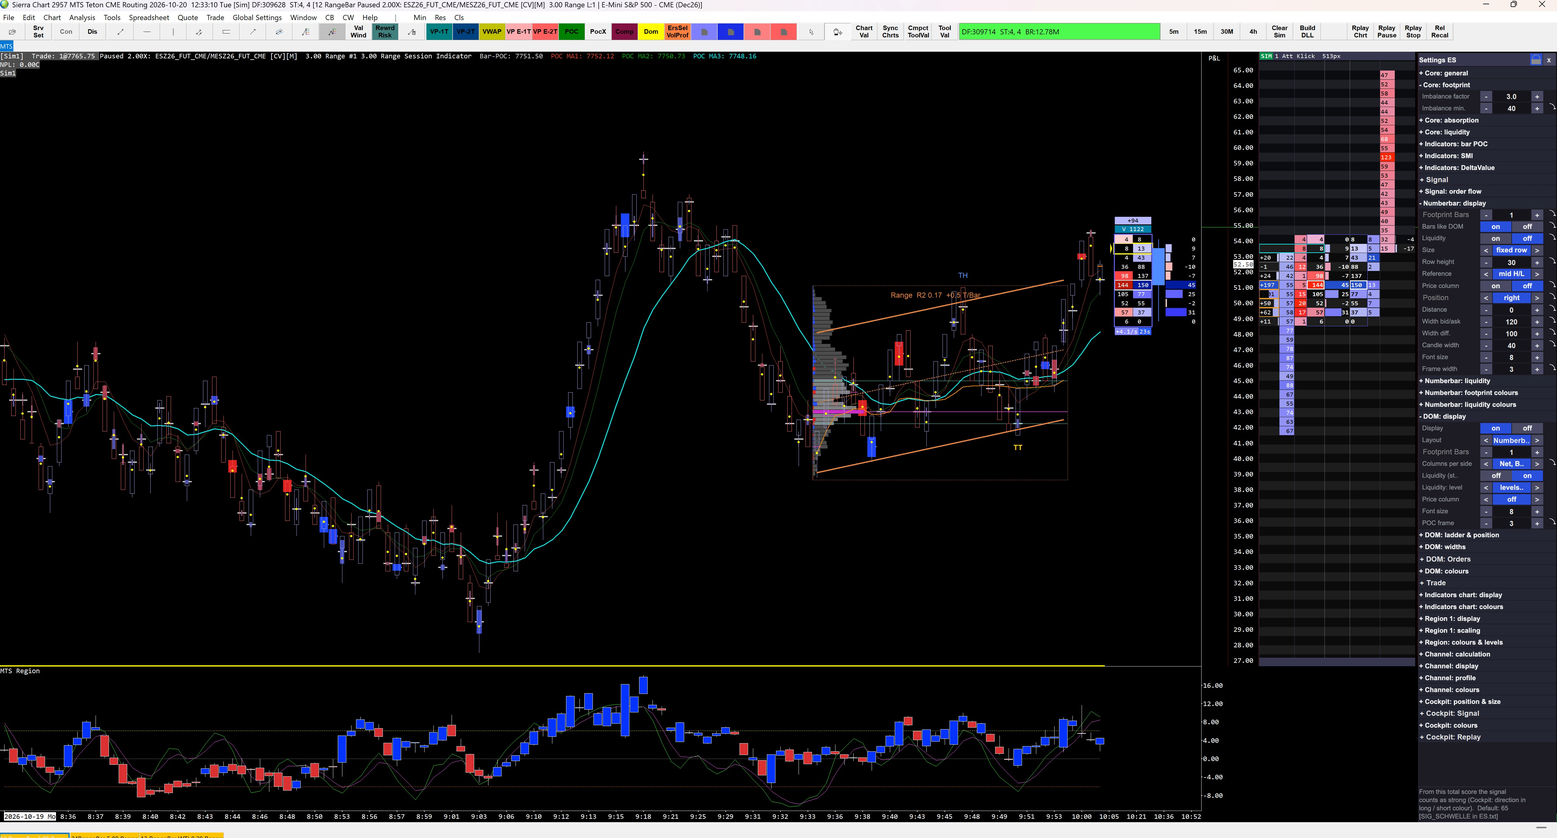
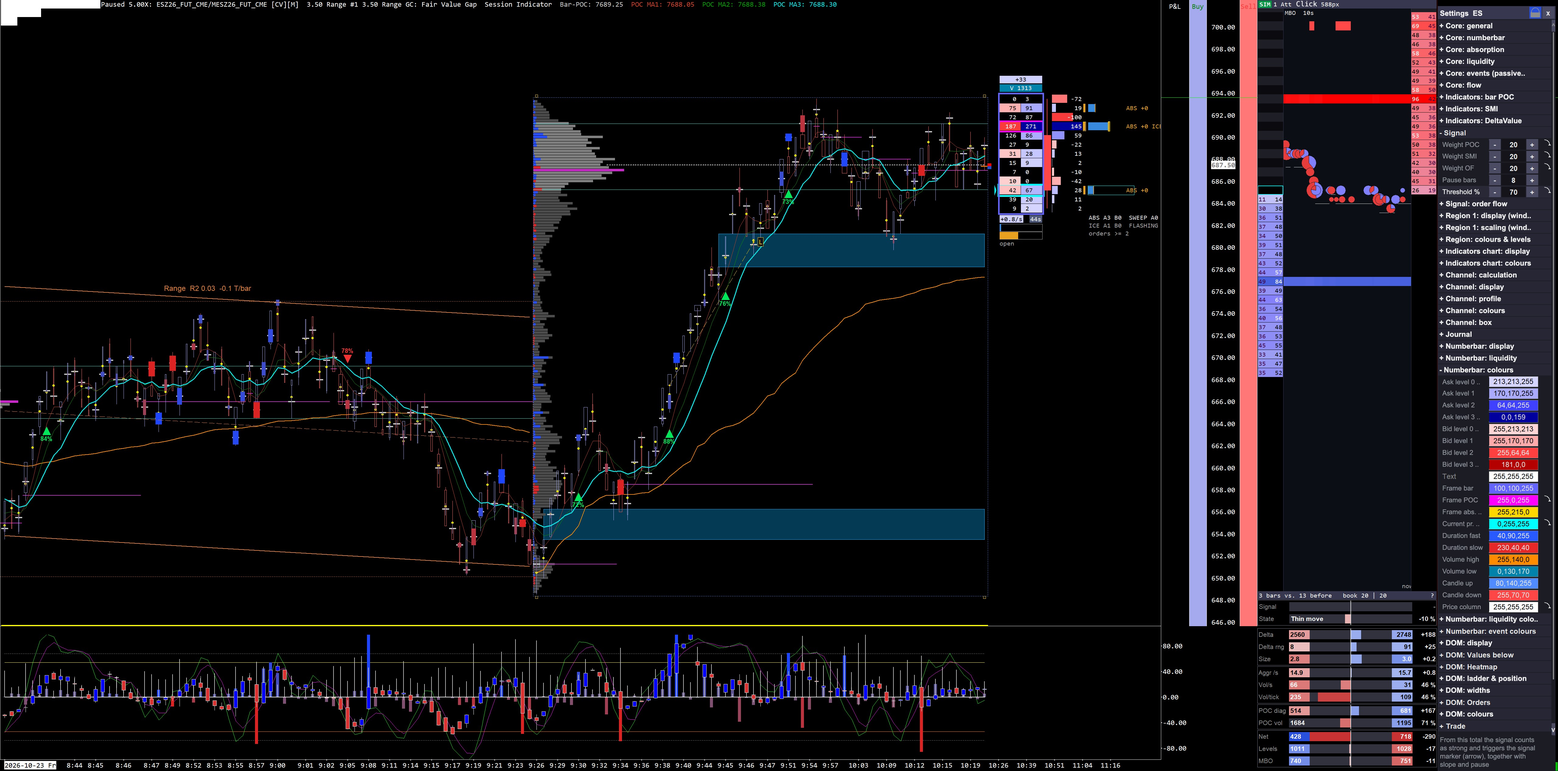
Update tour to the current cockpit
New screenshots, Flow view, values below the DOM.

Changed region(s): [[0.0, 0.0, 1.0, 1.0], [0.0, 0.7794, 0.0311, 0.8106]]

diff --git a/index.html b/index.html
@@ -53,76 +53,92 @@
 </div>
 <footer>Screenshots from Sierra Chart (labels shown in English), simulated account. Not investment advice. © 2026 chrislb<br>Questions or feedback: <a href="mailto:mts.tour@icloud.com" style="color:var(--acc)">mts.tour@icloud.com</a></footer>
 <script>
-// Zwei Ansichten: Hauptbild (Stand 2026-10-23) und Einstellungen. Bereiche in Einheiten der 1600-px-Ansicht.
-const V = { main: { src:'screen.jpg', W:1600, H:791.9 }, set: { src:'settings.jpg', W:1600, H:861.9 } };
+// Drei Ansichten (Stand 2026-11-06): Hauptbild, Flow-Ansicht des DOM, Einstellungen. Bereiche in Einheiten der 1600-px-Ansicht.
+const V = { main: { src:'screen.jpg', W:1600, H:791.9 }, flow: { src:'flow.jpg', W:1600, H:791.9 }, set: { src:'settings.jpg', W:1600, H:791.9 } };
 const A = [
- { id:'intro', t:'Overview', r:null, show:'One chartbook, only own studies: price chart with volume profiles, channels and journal entries, footprint bar and diagonal delta, an order-flow DOM, an indicator region and – on the right – the Cockpit, a column of tiles that replaces most of the classic dialogs.',
+ { id:'intro', t:'Overview', r:null, show:'One chartbook with its own studies: price chart with volume profiles and journal entries, numberbar and diagonal delta, an order-flow DOM with a value panel below it, an indicator region and – on the right – the Cockpit, a column of tiles that replaces most of the classic dialogs.',
    why:'Everything a discretionary order-flow trader needs while the market moves, in one place – and every situation can be recorded as a case to learn from.',
    where:'All settings live in the Cockpit drawer (one key per setting, applied instantly). Every tile has a "?" that opens its manual chapter.' },
- { id:'chart', t:'Price chart', r:[0,10,1100,600], show:'Example: 3.5-point range bars – any bar type works. Per bar: <b>yellow dot</b> = 1-bar VWAP (the bar’s centre of gravity), <b>thin cross line</b> = bar POC, <b>red / blue box</b> = POC delta: its height is the volume at the POC, its width the delta. Plus three POC moving averages.',
+ { id:'chart', t:'Price chart', r:[0,10,1012,625], show:'Example: 3.5-point range bars – any bar type works. Per bar: <b>yellow dot</b> = 1-bar VWAP (the bar’s centre of gravity), <b>thin cross line</b> = bar POC, <b>red / blue box</b> = POC delta: its height is the volume at the POC, its width the delta. Plus three POC moving averages.<br><br>The teal zones are not part of MTS: they come from a separate study on this chart (see the chart title, "Fair Value Gap").',
    why:'See inside every bar where volume really traded, where its weight sits and who won at the POC – without opening a footprint chart.',
    where:'Indicators can be switched on and off one by one in the drawer (groups "Indicators").' },
- { id:'vp', t:'Volume profile with channel', r:[550,62,550,245], show:'A volume profile set with two clicks (start and end bar, or running live). Info block with range and POC volume, POC and value area. Optional regression channel with ±σ band and a label with type, R² and slope in ticks per bar ("Range R2 0.02 +0.1 T/Bar").',
+ { id:'vp', t:'Volume profile', r:[562,70,450,515], show:'A volume profile over any stretch of bars, set with two clicks or running live, with POC and value area. Optional regression channel with ±σ band and a label with R² and slope in ticks per bar, like the "Range R2" label on the left.<br><br>New: <b>boxes inside a profile</b>. Drag across some bars and the box summarises that stretch – absorption, sweeps, volume and POC. A box that ends at the current bar keeps running.',
    why:'Every range or trend you mark gets its own profile – the anchor for your notes and journal entries.',
-   where:'VP tile: set / end / delete, browse, channel on/off, pin, type.' },
- { id:'jchart', t:'Journal: trades in the chart', r:[522,262,92,46], show:'A trade recorded in hindsight: dashed line from entry to exit (green = long, red = short) and a label with the code and the result in ticks and in $ for one contract – here <b>L +46 T +58 $</b>.',
+   where:'VP tile: VP, Del, Pin, channel, Box, browse.' },
+ { id:'jchart', t:'Journal: trades in the chart', r:[694,212,112,160], show:'A trade recorded in hindsight: dashed line from entry to exit and a frame with the code, here <b>L</b> for long. Ticks and dollars for this trade are in the Journal tile.',
    why:'Your trades – real or "would have taken" – stay visible exactly where they happened.',
    where:'Ctrl+click in the chart (see "How to journal").' },
- { id:'fp', t:'Footprint bar in the chart', r:[1116,146,48,174], show:'Bid | Ask per price level for the live bar (and up to 20 bars next to each other). The diagonally dominant side is coloured, a white frame marks the POC, a gold frame absorption at the extreme, yellow the current price. Header: delta and volume vs. normal; footer: aggression (delta per second) and bar duration.',
+ { id:'fp', t:'Numberbar in the chart', r:[1025,56,47,135], show:'Bid | Ask per price level for the live bar (and up to 20 bars next to each other). The diagonally dominant side is coloured, a magenta frame marks the POC here, a gold frame absorption at the extreme, cyan the current price. Header: delta and volume vs. normal; footer: aggression (delta per second) and bar duration.',
    why:'Read the running bar right where price is – without looking away to a separate footprint chart.',
-   where:'Number of bars with [–] N Bar [+] in the Bar tile, or synchronised with the DOM footprint.' },
- { id:'diag', t:'Diagonal delta', r:[1164,164,45,140], show:'Next to the bar candle: the diagonal difference Ask[P] – Bid[P–1] per level as bar and number – blue where buyers lift, red where sellers hit.',
+   where:'Number of bars with &lt; N Bar &gt; in the Numberbar tile.' },
+ { id:'diag', t:'Diagonal delta', r:[1078,72,36,100], show:'Next to the bar candle: the diagonal difference Ask[P] – Bid[P–1] per level as bar and number – blue where buyers lift, red where sellers hit.',
    why:'Shows at which levels the aggressive side really won – the core of reading imbalance.',
    where:'Colours and on/off in the drawer (group "Numberbar").' },
- { id:'dom', t:'Order-flow DOM', r:[1272,0,176,610], show:'Book, net change (pulling / stacking), footprint over the last N bars, diagonal delta and time & sales in one ladder. The column order is free (24 layouts), the ask side mirrors the bid side. POC and absorption are framed like in the chart.<br><br><b>Net change – live from the order book, per level:</b><br><code>Net = book now − book at bar start + volume traded at the level</code><br>Adding back what was traded separates real limit changes from fills: <b>+ = stacking</b> (new limits), <b>− = pulling</b> (limits removed). A grey frame means the level changed sides during the bar – net counts only since then.',
+ { id:'net', t:'Liquidity next to the numberbar', r:[1112,90,80,108], show:'Limit changes per level for the running bar, and marks where a level was hit: <b>ABS</b> = the passive side held, <b>SWEEP</b> = the aggressor went through, <b>ICE</b> = more traded than the book showed. The lines below count these events per side.',
+   why:'Whether a level held or gave way, right next to the bar that tested it.',
+   where:'Liquidity | Net in the Numberbar tile, minimum order size with &lt; &gt;= N &gt;.' },
+ { id:'dom', t:'Order-flow DOM', r:[1291,0,184,608], show:'Book, net change (pulling / stacking), numberbar over the last N bars, diagonal delta and time &amp; sales in one ladder. Three views: Standard, Integrated and Flow. POC and absorption are framed like in the chart.<br><br><b>Net change – live from the order book, per level:</b><br><code>Net = book now − book at bar start + volume traded at the level</code><br>Adding back what was traded separates real limit changes from fills: <b>+ = stacking</b> (new limits), <b>− = pulling</b> (limits removed).',
    why:'One ladder instead of three windows – and you see whether liquidity is really there or just being pulled.',
-   where:'Columns, colours and footprint bars in the drawer (group "DOM"); click-trading follows the Trade tile.' },
- { id:'region', t:'Indicator region', r:[0,615,1210,165], show:'One sub-window for all oscillators: SMI, cumulative delta, DeltaValue candles and more – each one switchable, scaled automatically per group.<br><br>And of course <b>every standard Sierra Chart study can still be used</b> – in this region, in the chart or in other windows. MTS only adds its own studies, it doesn’t replace or block anything.',
+   where:'View and window in the DOM tile; columns and colours in the drawer (groups "DOM"); click-trading follows the Trade tile.' },
+ { id:'sig', t:'Signal and State', tag:'preview: Signal', r:[1291,608,184,34], show:'At the bottom of the DOM. The header names the window: here 3 bars compared with the 13 bars before.<br><br><b>State</b> puts the running bar into one word from Vol/s and Vol/tick: Absorption, Buyers push, Sellers push, Thin move, Quiet – or nothing when there is no clear picture. It describes what is happening, it predicts nothing.<br><br><b>Signal</b> combines POC and SMI into a direction score, here L 46 %. It is shown as a preview only and is not part of the first test version.',
+   why:'A short verdict in the place where you are already looking.',
+   where:'Group "DOM: Values below".' },
+ { id:'below', t:'Values below the DOM', r:[1291,645,184,145], show:'One logic for every row: the two sides left and right, a bar from the centre towards the stronger side, the difference at the far right. Blue means buyers, red means sellers. Bar length scales to the strongest of the recent windows, shading compares with their average.<br><br><b>Market orders</b><ul><li><b>Delta</b> bid vs. ask volume</li><li><b>Delta rng</b> lowest and highest delta in the bar, the bar shows the distance to the nearer extreme</li><li><b>Size</b> average trade size per side</li></ul><b>Speed and effort</b><ul><li><b>Aggr /s</b> bid and ask volume per second, live bar</li><li><b>Vol/s</b> volume per second vs. its average</li><li><b>Vol/tick</b> volume per tick of range: the effort behind the move</li></ul><b>POC</b><ul><li><b>POC diag</b> the two diagonals around the POC</li><li><b>POC vol</b> volume of these four cells vs. its average</li></ul><b>Book</b><ul><li><b>Net</b> limit changes per side over the window</li><li><b>Levels</b> visible book now</li><li><b>MBO</b> number of orders now</li></ul>',
+   why:'Eleven questions about the bar, one way to read them – each number compared with what is normal right now.',
+   where:'Window with &lt; N Bar &gt; in the DOM tile; "?" in the DOM footer opens the explanation of all rows.' },
+ { id:'region', t:'Indicator region', r:[0,645,1014,135], show:'One sub-window for all oscillators: SMI, cumulative delta, DeltaValue candles and more – each one switchable, scaled automatically per group.<br><br>And of course <b>every standard Sierra Chart study can still be used</b> – in this region, in the chart or in other windows. MTS only adds its own studies, it doesn’t replace or block anything.',
    why:'No more stack of separate indicator panes and subgraph settings.',
    where:'Switches per region in the drawer (group "Region").' },
- { id:'sig', t:'Signal', tag:'preview', r:[1449,0,151,97], show:'Clock, countdown to bar end and a combined direction score from several building blocks. <b>Take</b> / <b>No trade</b> write the decision straight into the journal.',
-   why:'Shown here only as a preview – it is not part of the first test version.',
-   where:'—' },
- { id:'trade', t:'Trade tile', r:[1449,97,151,122], show:'SIM / LIVE, quantity, bracket template, attached orders on/off, market / ask / bid buttons, flatten, reverse, cancel, break-even, max position.',
+ { id:'trade', t:'Trade tile', r:[1477,6,121,126], show:'Clock and countdown to bar end, SIM / LIVE, position and P/L, quantity, bracket template, market / ask / bid buttons (blue = buy, red = sell), flatten, cancel, reverse, break-even, max position.',
    why:'All order actions with one click, with clear status of account and position.',
-   where:'Quantity, max position and live permission per market in the drawer (group "Trade").' },
- { id:'bar', t:'Bar tile', r:[1449,229,151,133], show:'For a window of N bars: volume bid | delta | ask, total vs. average of equal windows (%), aggression, bar time (faster / slower). Below: POC, POC diagonals, POC delta % and POC volume.',
-   why:'Is this bar special? Every number is compared with what is normal right now.',
-   where:'Window size directly in the header: [–] N Bar [+].' },
- { id:'liqt', t:'Liquidity tile', r:[1449,363,151,59], show:'Net change bid | delta | ask of the running bar (same live calculation as in the DOM), the book of the visible DOM levels and a verdict which side is stacking more.',
-   why:'The liquidity story of the bar in one line.',
-   where:'Colours in the drawer (group "Cockpit: colours").' },
- { id:'replay', t:'Replay', r:[1449,423,151,40], show:'Start at the last visible bar, tempo –/+ (0.5 to 200), pause / resume, stop. The standard replay box is hidden.',
-   why:'Practise and review without hunting through menus.',
-   where:'Start tempo and which charts follow (single / all / linked) in the drawer.' },
- { id:'vpt', t:'VP tile', r:[1449,463,151,120], show:'Set, end and delete volume profiles, browse them (VP 10/10), switch the regression channel, pin a VP so it stays visible, set its type (auto / up / range / down) and write a note. Below: time range, bars, type, R², POC and value area.',
+   where:'Quantity and template in the tile; max position and live permission per market in the drawer (group "Trade").' },
+ { id:'numt', t:'Numberbar tile', r:[1477,142,121,52], show:'Only switches, the values are in the chart and below the DOM: number of bars, Liquidity | Net view, minimum order size, shading, Align (one ladder row = one price level) and the position in the chart.',
+   why:'Fewer numbers in the Cockpit, because each one now stands where it belongs.',
+   where:'Everything in this tile; colours in the drawer (groups "Numberbar").' },
+ { id:'domt', t:'DOM tile', r:[1477,195,121,12], show:'Collapsed here, it holds the window in its header: &lt; 3 Bar &gt;. Opened, it switches the DOM between Standard, Integrated and Flow. <b>Click it in the picture</b> or press the button below to see the Flow view.',
+   why:'One click changes how you read the book, with no recalculation.',
+   where:'Click the tile header.', go:'f_map', next:'Open Flow view ›' },
+ // --- Flow ---
+ { id:'f_map', v:'flow', t:'Flow view of the DOM', r:[1318,10,130,598], show:'Bid | Flow map | Ask on the same price rows as the ladder. Time runs from left to right, the right edge is now.<ul><li><b>Bands</b> show resting limits over time</li><li><b>Dots</b> show aggressive orders, split into buy and sell here: larger dot = more contracts</li></ul><b>How to read it:</b> the band stays while dots run into it = absorption. It gets bright again after each dot = refill or iceberg. It disappears before the dots reach it = pull. Dots run through and the band ahead goes dark = sweep.',
+   why:'You see the fight between aggressive orders and resting limits, not only its result.',
+   where:'DOM tile: Flow. Single orders need a market-by-order feed; without one MTS estimates, and the header shows the source (here MBO).' },
+ { id:'f_tile', v:'flow', t:'DOM tile, opened', r:[1477,195,121,51], show:'Standard | Integrated | Flow switch the view. The next row sets the minimum book size for the map, dots or split dots, time or ticks on the x axis and the time span. Below: the book imbalance at bar start.',
+   why:'Tune the map while watching it.',
+   where:'Everything in this tile; colours and sources in the drawer (groups "DOM").' },
+ { id:'f_std', v:'flow', t:'Back to the standard view', r:[1478,207,39,12], show:'Standard brings the ladder back. Each chart keeps its own view.',
+   why:'', where:'Click Standard (or the button below).', go:'vpt', next:'Back to standard view ›' },
+ // --- zurueck im Hauptbild ---
+ { id:'vpt', t:'VP tile', r:[1477,208,121,62], show:'Set, end and delete volume profiles, browse them (VP 4/4), switch the regression channel, pin a VP so it stays visible, draw boxes and show all their values, and write a note for the VP or a box.',
    why:'The profile is the anchor of every case – what happened in this range or trend.',
    where:'Everything in this tile; defaults in the drawer (groups "Channel").' },
- { id:'jtile', t:'Journal tile', r:[1449,584,151,112], show:'Browse all entries (7/7). For each: codes and text, time and prices (09:40–09:46, 7669.25 → 7680.75), the result <b>+46 T (+58 $)</b>, the largest run for and against (max +72 / –3), number of bars, the signal at that bar and a note.',
+ { id:'replay', t:'Replay', r:[1477,270,121,51], show:'Start at the last visible bar, tempo – / + (0.5 to 200), pause / resume, stop. <b>Back</b> and <b>Forward</b> jump a chosen number of bars. The last row picks which charts follow: one chart, all, or the linked ones. The standard replay box is hidden.',
+   why:'Practise and review without hunting through menus.',
+   where:'Everything in this tile; start tempo in the drawer.' },
+ { id:'jtile', t:'Journal tile', tag:'preview: Trade | No Trade', r:[1477,322,121,125], show:'Browse all entries. For each: code, time and prices (09:39–09:46, 7667.50 → 7680.50), the result <b>+52 T (+65 $)</b>, the largest run for and against (max +79 / –3), number of bars, the signal at that bar and a note.',
    why:'Every trade idea becomes a documented case with its numbers – not a memory.',
-   where:'Click the header line to edit, "delete" to remove.' },
- { id:'jhow', t:'How to journal', r:[1449,745,151,25], show:'One function for everything:<ul><li><b>Ctrl+click</b> a bar = entry at that bar</li><li><b>Shift+Ctrl+click</b> bar 1, then click bar 2 = entry over two bars</li><li>The code decides: <b>L / S</b> = trade (entry → exit, result calculated), <b>NT</b> = signal not traded, anything else = info (e.g. FBO, absorption)</li><li>A small input window opens next to the bar; Enter = save, Tab = note, Esc = cancel</li><li>Live: <b>Take</b> / <b>No trade</b> in the Signal tile</li></ul>All values behind each entry (bars, order flow, liquidity, profile) are exported for later evaluation.',
+   where:'Click the header line to edit, "delete" to remove. Trade | No Trade record the last signal and belong to the signal preview.' },
+ { id:'jhow', t:'How to journal', r:null, show:'One function for everything:<ul><li><b>Ctrl+click</b> a bar = entry at that bar</li><li><b>Shift+Ctrl+click</b> bar 1, then click bar 2 = entry over two bars</li><li>The code decides: <b>L / S</b> = trade (entry → exit, result calculated), <b>NT</b> = signal not traded, anything else = info (e.g. FBO, absorption)</li><li>A small input window opens next to the bar; Enter = save, Tab = note, Esc = cancel</li></ul>All values behind each entry (bars, order flow, liquidity, profile) stay with the case for later evaluation.',
    why:'Recording must take seconds – otherwise nobody does it. This is the basis for testing your own ideas instead of guessing.',
-   where:'Codes list and label style in the drawer; the hint line at the bottom of the Cockpit shows the keys.' },
- { id:'mts', t:'Settings button', r:[1449,697,151,50], show:'Below the collapsed tiles (MTS status, session stats, recording): the "Settings" button. It replaces the tile column with the settings drawer – <b>click it in the picture</b> or press the button below.',
+   where:'Codes list and label style in the drawer.' },
+ { id:'mts', t:'Settings button', r:[1477,448,121,52], show:'Below the collapsed tiles: the "Settings" button. It replaces the tile column with the settings drawer – <b>click it in the picture</b> or press the button below.',
    why:'One compute core calculates every value once; all displays only draw – and all of them are configured in one place.',
-   where:'Click "Settings".', go:'s_drawer' },
+   where:'Click "Settings".', go:'s_drawer', next:'Open settings ›' },
  // --- Einstellungen ---
- { id:'s_drawer', v:'set', t:'Settings drawer', r:[1457,55,143,745], show:'All settings of all modules in one list, grouped (compute core, indicators, signal, numberbar, DOM, trade, region, channel, cockpit). Groups open and close with a click. No input numbers, no subgraph dialogs – every value has a name, a range and a help text.',
+ { id:'s_drawer', v:'set', t:'Settings drawer', r:[1477,8,121,780], show:'All settings of all modules in one list, grouped (compute core, indicators, signal, region, channel, journal, numberbar, DOM, trade). Groups open and close with a click. No input numbers, no subgraph dialogs – every value has a name, a range and a help text.',
    why:'Find any setting in seconds – and understand it without a manual.',
    where:'Stored as readable text per market (e.g. ES.txt) plus one file for the interface; changes apply instantly.' },
- { id:'s_num', v:'set', t:'Numbers: – value +', r:[1457,93,143,25], show:'Numeric values with – / + (Shift and Ctrl for bigger steps). Click the value itself to type it in.',
-   why:'Fine-tune while watching the chart change.', where:'Every numeric key, e.g. imbalance factor.' },
- { id:'s_sw', v:'set', t:'Switches and lists', r:[1457,227,143,85], show:'On / off switches (e.g. "bars like DOM", liquidity) and lists with ‹ › (size, reference, position).',
-   why:'Clear choices instead of codes like 0/1/2.', where:'Group "Numberbar: display".' },
- { id:'s_reset', v:'set', t:'Reset arrow', r:[1584,212,14,170], show:'An arrow appears next to every value that differs from its default – one click resets it.',
+ { id:'s_num', v:'set', t:'Numbers: – value +', r:[1478,142,112,62], show:'Numeric values with – / + (Shift and Ctrl for bigger steps). Click the value itself to type it in.',
+   why:'Fine-tune while watching the chart change.', where:'Every numeric key, here the signal weights.' },
+ { id:'s_col', v:'set', t:'Colours', r:[1478,388,112,242], show:'Every colour is a field: click it to open the colour dialog. Here the shades of the numberbar.',
+   why:'Change the look without digging through study inputs.', where:'Groups ending in "colours".' },
+ { id:'s_reset', v:'set', t:'Reset arrow', r:[1584,146,14,56], show:'An arrow appears next to every value that differs from its default – one click resets it.',
    why:'Experiment freely; the way back is always one click.', where:'Right edge of each row.' },
- { id:'s_dom', v:'set', t:'Example: DOM display', r:[1457,423,143,120], show:'Display mode (numberbar integrated), footprint bars, column order per side, liquidity on/off, price column, font size, POC frame.',
-   why:'The whole DOM layout in nine rows.', where:'Group "DOM: display".' },
- { id:'s_help', v:'set', t:'Help line', r:[1457,806,143,44], show:'The help text of the row under the mouse: what it does, the default and the internal key (here SIG_SCHWELLE).',
-   why:'The explanation is where you need it – no separate documentation needed.', where:'Bottom of the drawer.' },
- { id:'s_close', v:'set', t:'Back to the Cockpit', r:[1583,56,15,13], show:'The × closes the drawer and the tiles return. The lock next to it protects against accidental changes.',
-   why:'', where:'Click × (or the button below).', go:'intro' },
+ { id:'s_dom', v:'set', t:'DOM groups', r:[1477,655,118,95], show:'The DOM has its own groups: display, values below, heatmap, ladder and position, widths, orders, colours.',
+   why:'The whole DOM layout in one place.', where:'Groups "DOM".' },
+ { id:'s_help', v:'set', t:'Help line', r:[1477,755,121,37], show:'The help text of the selected row: what it does, the default and the internal key.',
+   why:'The explanation is where you need it.', where:'Bottom of the drawer.' },
+ { id:'s_close', v:'set', t:'Back to the Cockpit', r:[1584,7,13,12], show:'The × closes the drawer and the tiles return. The lock next to it protects against accidental changes.',
+   why:'', where:'Click × (or the button below).', go:'intro', next:'Back to start ›' },
 ];
 const stage = document.getElementById('stage'), panel = document.getElementById('panel'), img = document.getElementById('img');
 let cur = 0, view = 'main';
@@ -137,7 +153,7 @@ function build() {
 }
 function zoomDiv(a) {
   if (!a.r) return ''; const D = V[a.v || 'main'], [x, y, w, h] = a.r;
-  const k = Math.min(342 / w, 380 / h, 4), dw = w * k, dh = h * k;
+  const k = Math.min(326 / w, 380 / h, 4), dw = w * k, dh = h * k;
   return `<div class="zoom" style="height:${dh}px;width:${dw}px;max-width:100%;background-image:url(${D.src});background-size:${D.W * k}px ${D.H * k}px;background-position:${-x * k}px ${-y * k}px"></div>`;
 }
 function show(i) {
@@ -147,7 +163,7 @@ function show(i) {
   const nx = a.go ? idx(a.go) : (i + 1) % A.length;
   panel.innerHTML = `<h2>${a.t}${a.tag ? `<span class="tag">${a.tag}</span>` : ''}</h2>${zoomDiv(a)}
     <h3>What it shows</h3><p>${a.show}</p>${a.why ? `<h3>Why</h3><p>${a.why}</p>` : ''}<h3>Where to set it</h3><p>${a.where}</p>
-    <div class="nav"><button onclick="show(${(i + A.length - 1) % A.length})">‹ Back</button><span style="color:var(--mut);font-size:13px;align-self:center">${view === 'set' ? 'Settings · ' : ''}${i} / ${A.length - 1}</span><button onclick="show(${nx})">${a.go === 's_drawer' ? 'Open settings ›' : a.go === 'intro' ? 'Back to start ›' : 'Next ›'}</button></div>`;
+    <div class="nav"><button onclick="show(${(i + A.length - 1) % A.length})">‹ Back</button><span style="color:var(--mut);font-size:13px;align-self:center">${view === 'set' ? 'Settings · ' : view === 'flow' ? 'Flow · ' : ''}${i} / ${A.length - 1}</span><button onclick="show(${nx})">${a.next || 'Next ›'}</button></div>`;
   if (window.innerWidth < 1000 && a.r) panel.scrollIntoView({ behavior: 'smooth', block: 'start' });
 }
 document.addEventListener('keydown', e => { if (e.key === 'ArrowRight') show(A[cur].go ? idx(A[cur].go) : (cur + 1) % A.length); if (e.key === 'ArrowLeft') show((cur + A.length - 1) % A.length); });
